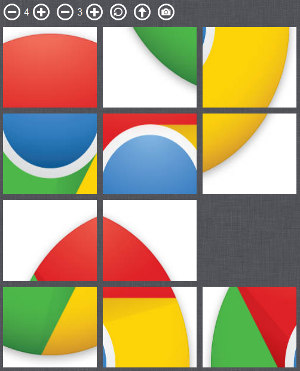
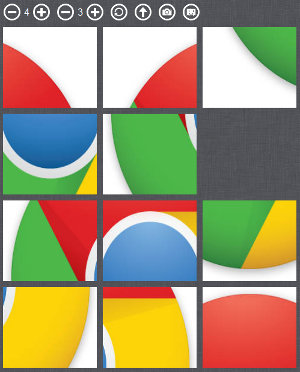
Update image-slider-game description

diff --git a/index.html b/index.html
@@ -113,6 +113,11 @@
                         <a href="http://sniksnp.github.io/image-slider-game">sniksnp.github.io/image-slider-game</a>.
                     </p>
                     <p class="center"><img src="im/image-slider-game.jpg" alt=""></p>
+                    <p>
+                        I also added the possibility to take a picture (from a webcam or a phone camera) and play on
+                        it. Last but not least, you can let the application solve the puzzle for you by clicking on
+                        the robot icon.
+                    </p>
                 </li>
                 <li>
                     <h3>Web interface to a command line tool in Node.js (2013)</h3>
